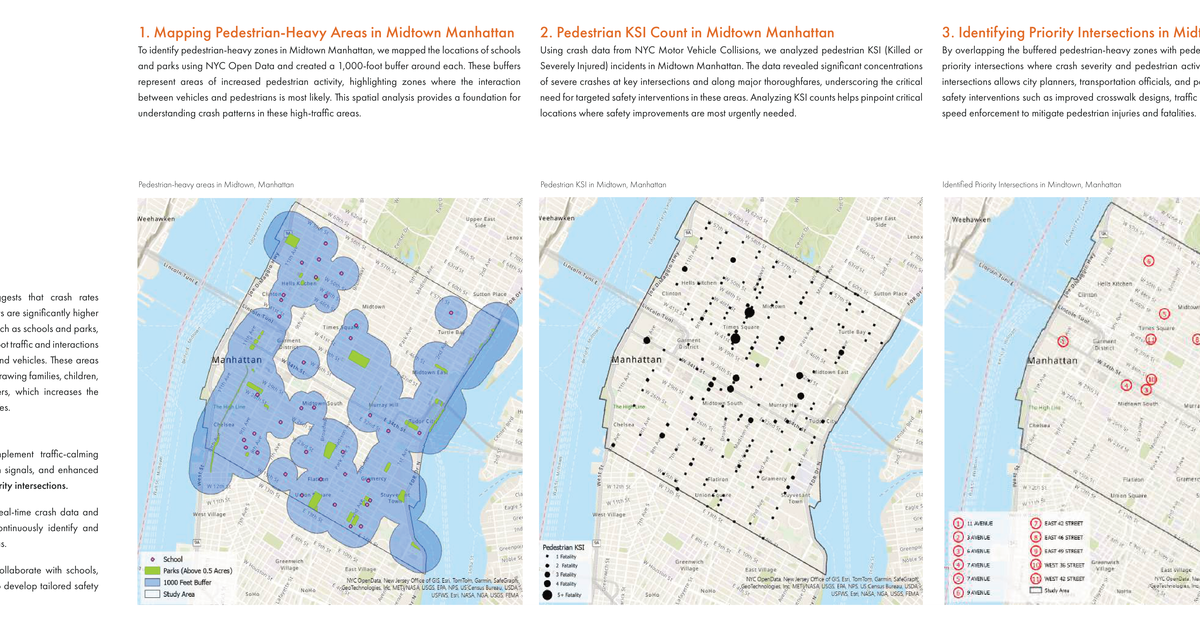
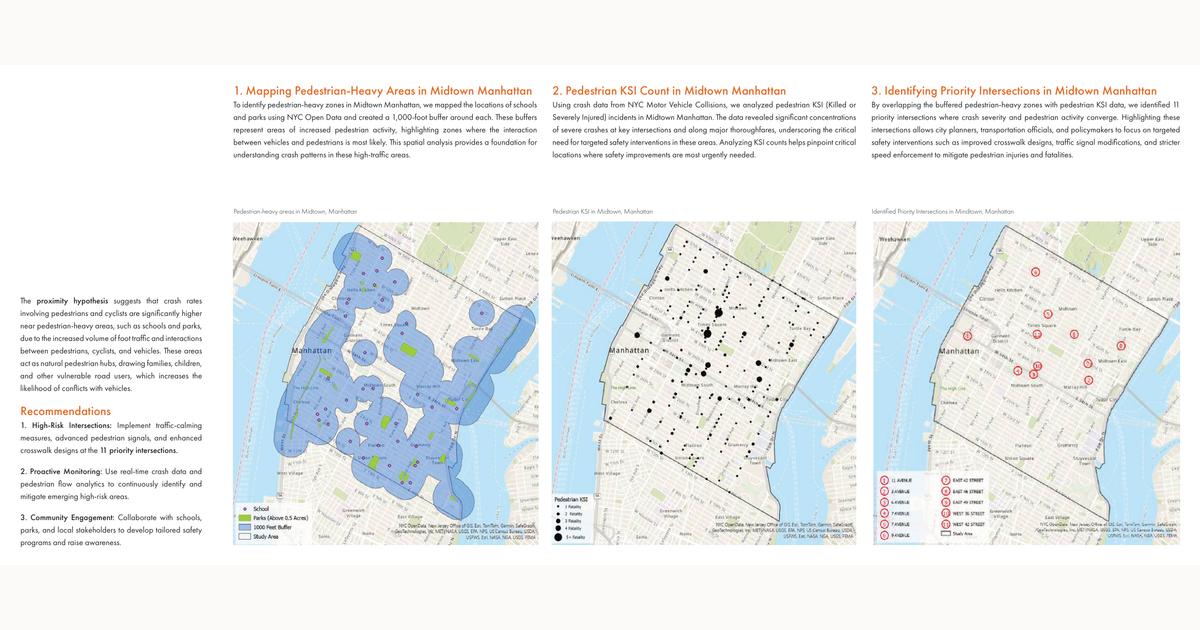
Drop the duplicated hero, uncrop cards, remove the QR hub, respell Resume
Three owner-reported fixes.

Repeating and cut figures: every project page rendered `thumbnail` full-width above the
body. That thumbnail is a 1200x630 card crop, and the urban-design cards are two-page PDF
spreads at ~2.4:1 — covering them into the card ratio sliced ~21% off the width, cutting
the outer panel off a three-panel board and the caption column mid-sentence. Since every
card is drawn from a page the body also shows in full, each page opened with a cropped
duplicate of a figure that appeared intact a screen later. The hero block is gone; the
first Figure in the body is the hero (§3.1). Urban-design thumbnails now use fit: contain
on the paper background, so the card shows the whole board with a thin letterbox.

QR hub: §9.3's /qr/ page is removed at the owner's request — each project already carries
a QRShare block at the bottom, which is what was wanted. The /qr/<slug>.svg endpoint stays
(QRShare's download depends on it, and §9.1 still wants a code per project plus the site
root and resume). Footer link, OG card, and route entries removed with it.

Spelling: "Résumé" is "Resume" everywhere, user-facing and in comments. The §8.1 filename
convention was already unaccented.

112 gate checks pass (down from 116 — /qr/ accounted for 4 route checks).

diff --git a/src/lib/site.ts b/src/lib/site.ts
@@ -33,10 +33,10 @@ export const NARRATIVE = {
   body: 'From flood-finance atlases and heat dashboards to AI agents that make maps, my work connects spatial analysis, reproducible data pipelines, and urban design into evidence people can act on.',
 } as const;
 
-/** Résumé asset. Filename convention: AbdulKalam_Resume_YYYY-MM.pdf (§8.1). */
+/** Resume asset. Filename convention: AbdulKalam_Resume_YYYY-MM.pdf (§8.1). */
 export const RESUME = {
   href: '/files/AbdulKalam_Resume_2026-08.pdf',
-  label: 'Résumé (PDF, 2 pages)',
+  label: 'Resume (PDF, 2 pages)',
   /* Owner-provided 2026-08-04, converted from AbdulKalam_Resume.docx (§13.5.7). */
   variant: 'GIS Specialist',
 } as const;

diff --git a/tests/site.spec.ts b/tests/site.spec.ts
@@ -66,7 +66,7 @@ test('no horizontal page scroll at any supported width', async ({ page }) => {
   // 320 is the floor, then the token breakpoints (§8.5).
   for (const width of [320, 375, 640, 768, 1024, 1440]) {
     await page.setViewportSize({ width, height: 900 });
-    for (const route of ['/', '/geospatial/', '/projects/autocarto-agent/', '/qr/']) {
+    for (const route of ['/', '/geospatial/', '/projects/autocarto-agent/', '/resume/']) {
       await page.goto(route);
       const overflow = await page.evaluate(
         () => document.documentElement.scrollWidth - document.documentElement.clientWidth

diff --git a/src/pages/qr/[slug].svg.ts b/src/pages/qr/[slug].svg.ts
@@ -3,7 +3,7 @@ import { getProjects, projectHref } from '../../lib/projects';
 import { qrSvgForPath } from '../../lib/qr';
 
 /**
- * One downloadable SVG QR per project page, plus the site root and the résumé (§9.1).
+ * One downloadable SVG QR per project page, plus the site root and the resume (§9.1).
  * Generated at build time and served from /qr/<slug>.svg.
  */
 

diff --git a/tests/routes.ts b/tests/routes.ts
@@ -23,7 +23,6 @@ export const ROUTES = [
   '/about/',
   '/resume/',
   '/contact/',
-  '/qr/',
   '/404.html',
 ] as const;
 

diff --git a/DECISIONS.md b/DECISIONS.md
@@ -126,6 +126,41 @@ extracts to 85 characters of unrelated labels). Those numbers were verified by d
 inspection of the rendered page at high resolution instead, and are cited with a page number
 in each figure's caption.
 
+## 2026-08-06 — Project pages have no separate hero image
+
+Every project page rendered `thumbnail` full-width above the body. Two problems, both
+reported by the owner: the thumbnail is a 1200×630 card crop, and the urban-design cards
+are two-page PDF spreads at roughly 2.4:1 — covering them into the card ratio sliced ~21%
+off the width, cutting the outer panel off a three-panel board and the caption column
+mid-sentence. And because every card is drawn from a page the body also shows in full,
+every project opened with a cropped duplicate of a figure that appeared intact a screen
+later.
+
+The hero block is removed. The first figure in the body is the hero (§3.1); `thumbnail` is
+now only the card and og:image. Urban-design thumbnails are additionally generated with
+`fit: contain` on the paper background rather than `fit: cover`, so the card shows the whole
+board with a thin letterbox instead of a cropped one.
+
+## 2026-08-06 — The `/qr/` hub page is removed (owner request)
+
+§9.3 specifies a `/qr/` hub listing every project's code for in-person display and print.
+The owner asked for it to go: "Do not need a separate section for the QR Codes, integrate it
+as at the bottom of the appropriate project." Every project page already carries a `QRShare`
+block at the bottom (§9.2), which is what the owner wanted, so nothing was lost there.
+
+Removed: `src/pages/qr/index.astro`, the footer link, the `qr` OG card, and the route from
+the test and budget lists. **Kept:** `src/pages/qr/[slug].svg.ts`, which still generates a
+downloadable level-Q SVG per project plus the site root and resume (§9.1) — `QRShare`'s
+download link depends on it. The print stylesheet that existed only for the hub went with
+the page.
+
+## 2026-08-06 — "Résumé" is spelled "Resume" site-wide (owner request)
+
+The owner asked for the unaccented spelling everywhere. Applied to all user-facing text
+(nav, footer, byline, page title and headings, download button, OG card) and to code
+comments for consistency. §8.1's filename convention is unaffected — the PDF was already
+`AbdulKalam_Resume_YYYY-MM.pdf`.
+
 ## 2026-08-06 — The Drive staging scaffold is abandoned, not migrated
 
 `…\3. PORTFOLIO WEBSITE\Portfolio Projects\portfolio-staging\` is a stock

diff --git a/DESIGN_HANDOFF.md b/DESIGN_HANDOFF.md
@@ -101,7 +101,7 @@ And these are prohibitions:
 ### Off-limits without the owner's sign-off (§13.5)
 
 Section names, their order, and their slugs. Published project slugs. The narrative line.
-The tech stack. Any verified statistic. Résumé and bio facts. The performance and
+The tech stack. Any verified statistic. Resume and bio facts. The performance and
 accessibility budgets — they may be tightened, never loosened.
 
 You can restyle the section cards freely; you cannot rename "Geospatial Intelligence" or
@@ -172,17 +172,17 @@ the built site.
 
 ### Pages
 
-`/` · `/geospatial/` · `/data-ai/` · `/urban-design/` · `/projects/<slug>/` × 6 ·
-`/about/` · `/resume/` · `/contact/` · `/qr/` · `/404` · `/labs/heat-dashboard/`
+`/` · `/geospatial/` · `/data-ai/` · `/urban-design/` · `/projects/<slug>/` × 12 ·
+`/about/` · `/resume/` · `/contact/` · `/404` · `/labs/heat-dashboard/`
 
-Two states worth knowing about:
+Two things worth knowing about:
 
-- **`/urban-design/` has no projects.** Publishing that section needs the owner to approve a
-  candidate list first (`docs/urban-design-candidates.md`). It currently ships a designed
-  "in preparation" state, which is a real design surface, not a placeholder to delete.
-- **`/qr/`** has a print stylesheet: black on white, site chrome hidden, three columns. The
-  owner opens it to show a code in person and prints it for posters. Any restyle has to
-  survive `Ctrl+P`.
+- **Project pages have no separate hero image.** `thumbnail` is the card and og:image only;
+  the first `Figure` in the MDX body is the hero. Reintroducing a hero would reintroduce a
+  cropped duplicate of it — see DECISIONS.md.
+- **There is no `/qr/` hub.** Each project page carries a `QRShare` block at the bottom
+  instead, with a build-time level-Q SVG served from `/qr/<slug>.svg`. That block is the
+  whole QR surface now, so it has to hold up on its own.
 
 ---
 

diff --git a/CLAUDE.md b/CLAUDE.md
@@ -40,6 +40,6 @@ a `planned` project must carry a `plannedNote`, and every one of its stats must 
 ## Non-negotiable
 
 §13.5 lists what needs the owner's explicit approval (section names and slugs, published
-URLs, the narrative line, the stack, verified stats, résumé and bio facts, budgets,
+URLs, the narrative line, the stack, verified stats, resume and bio facts, budgets,
 third-party scripts). §13.6 lists what is prohibited outright — starting with fabricating
 statistics. A number that cannot be traced to a committed output does not ship.
